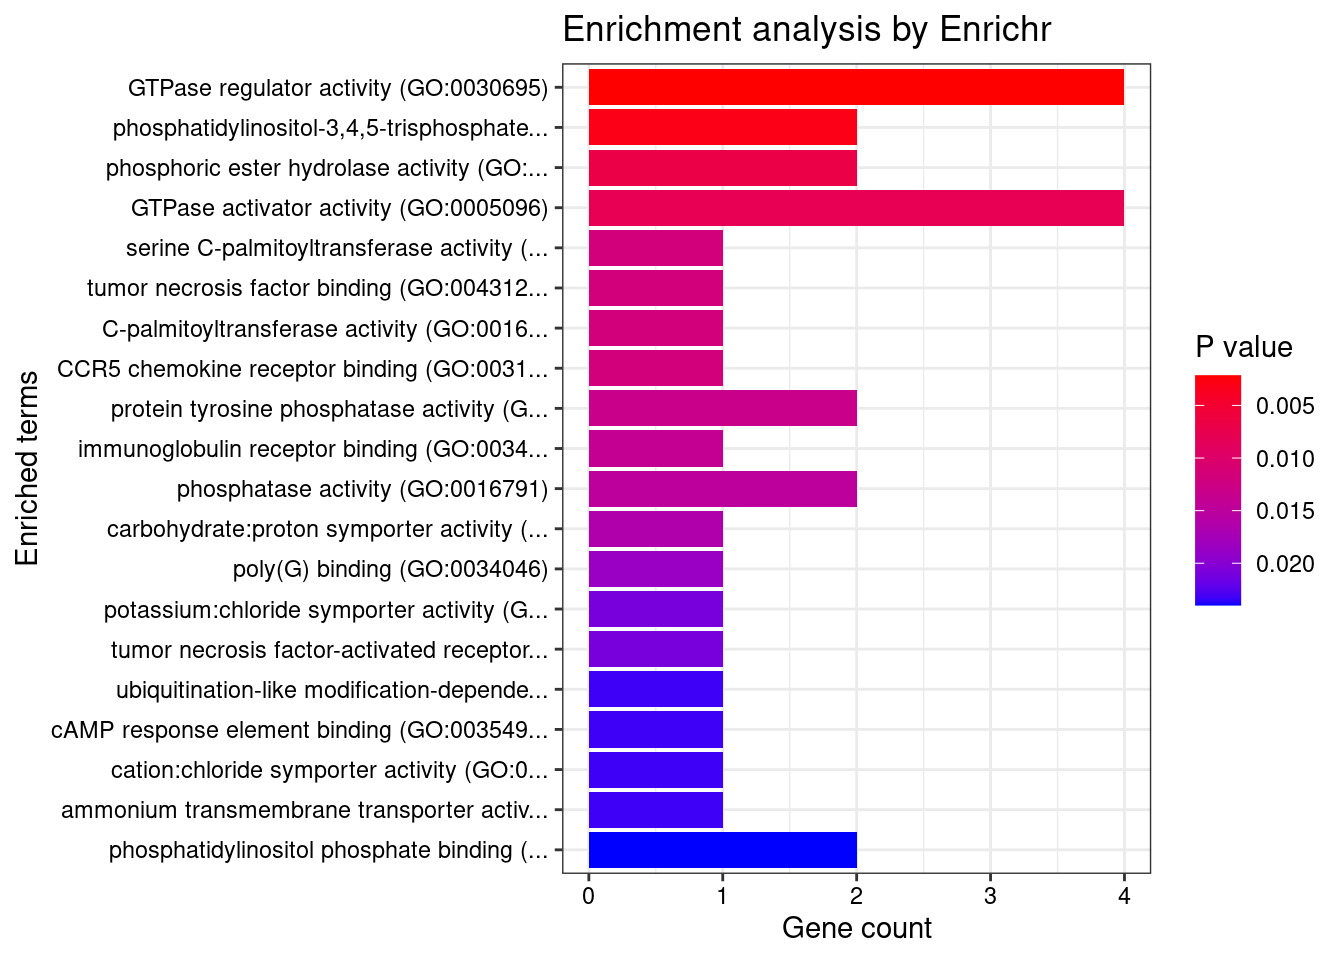
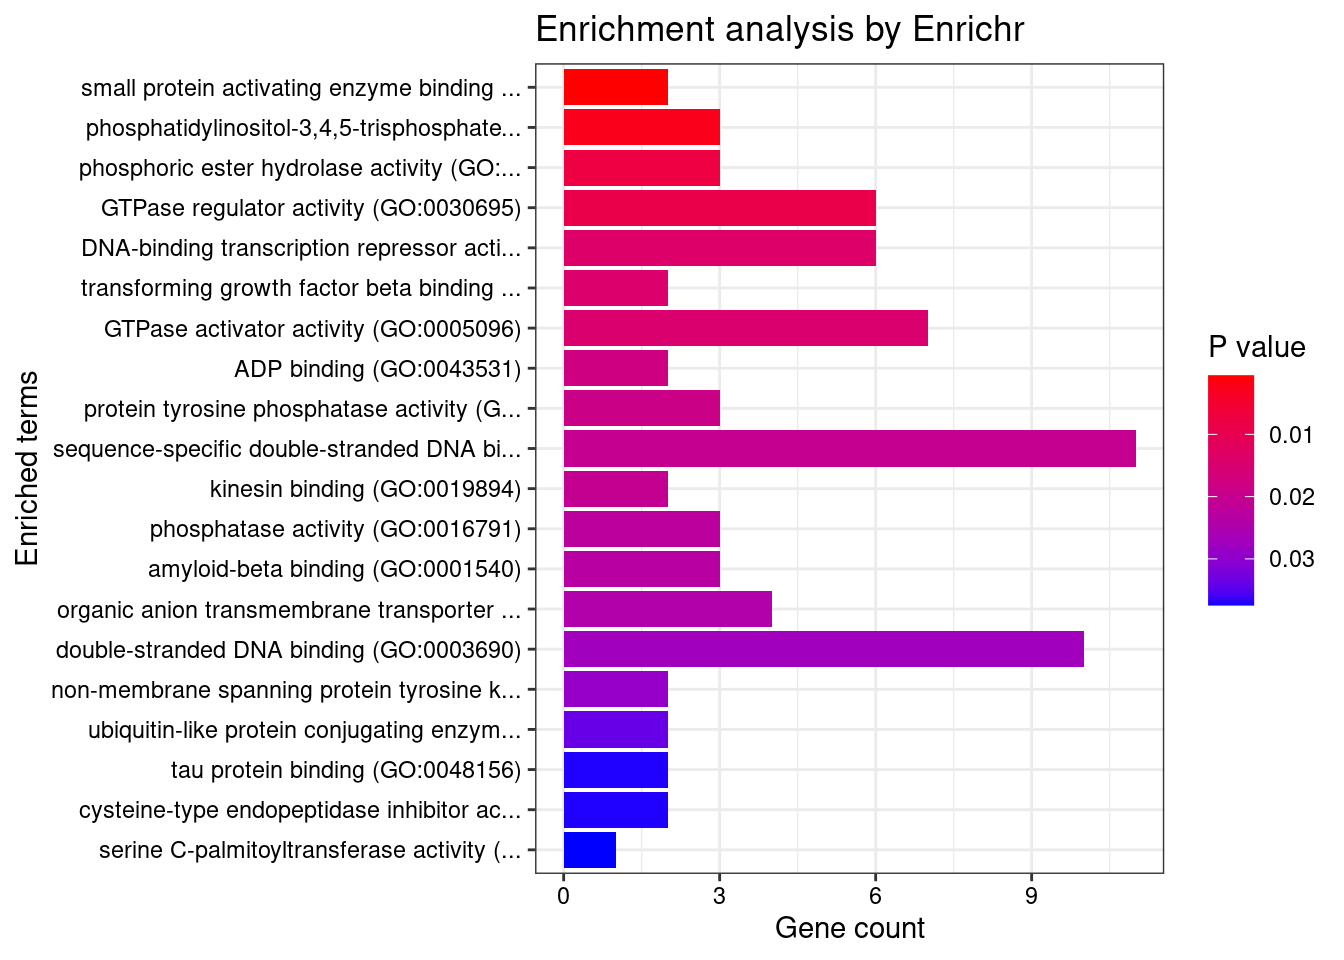
update

Changed region(s): [[0.0312, 0.0, 1.0, 1.0]]

diff --git a/docs/WhiteBlood_WholeBlood_E_S_M.html b/docs/WhiteBlood_WholeBlood_E_S_M.html
@@ -386,7 +386,7 @@ div.tocify {
 <div class="tab-content">
 <div id="summary" class="tab-pane fade in active">
 <p>
-<strong>Last updated:</strong> 2023-02-02
+<strong>Last updated:</strong> 2023-02-03
 </p>
 <p>
 <strong>Checks:</strong> <span class="glyphicon glyphicon-ok text-success" aria-hidden="true"></span> 5 <span class="glyphicon glyphicon-exclamation-sign text-danger" aria-hidden="true"></span> 2
@@ -410,7 +410,7 @@ This reproducible <a href="https://rmarkdown.rstudio.com">R Markdown</a> analysi
 </div>
 <div id="strongRMarkdownfilestronguncommittedchanges" class="panel-collapse collapse">
 <div class="panel-body">
-<p>The R Markdown file has staged changes. To know which version of the R Markdown file created these results, you’ll want to first commit it to the Git repo. If you’re still working on the analysis, you can ignore this warning. When you’re finished, you can run <code>wflow_publish</code> to commit the R Markdown file and build the HTML.</p>
+<p>The R Markdown file has unstaged changes. To know which version of the R Markdown file created these results, you’ll want to first commit it to the Git repo. If you’re still working on the analysis, you can ignore this warning. When you’re finished, you can run <code>wflow_publish</code> to commit the R Markdown file and build the HTML.</p>
 </div>
 </div>
 </div>
@@ -533,16 +533,16 @@ data/mqtl/WholeBlood.db
 <div class="panel panel-default">
 <div class="panel-heading">
 <p class="panel-title">
-<a data-toggle="collapse" data-parent="#workflowr-checks" href="#strongRepositoryversionstrongahrefhttpsgithubcomsq96cTWASanalysistreea76256830927919471e32c34075dde86f20eb5fftargetblanka762568a"> <span class="glyphicon glyphicon-ok text-success" aria-hidden="true"></span> <strong>Repository version:</strong> <a href="https://github.com/sq-96/cTWAS_analysis/tree/a76256830927919471e32c34075dde86f20eb5ff" target="_blank">a762568</a> </a>
+<a data-toggle="collapse" data-parent="#workflowr-checks" href="#strongRepositoryversionstrongahrefhttpsgithubcomsq96cTWASanalysistree6286c345d7d7de0c6a56bd29a0792988cb78f287targetblank6286c34a"> <span class="glyphicon glyphicon-ok text-success" aria-hidden="true"></span> <strong>Repository version:</strong> <a href="https://github.com/sq-96/cTWAS_analysis/tree/6286c345d7d7de0c6a56bd29a0792988cb78f287" target="_blank">6286c34</a> </a>
 </p>
 </div>
[2 lines of base64/hex data omitted]
 <div class="panel-body">
 <p>
 Great! You are using Git for version control. Tracking code development and connecting the code version to the results is critical for reproducibility.
 </p>
 <p>
-The results in this page were generated with repository version <a href="https://github.com/sq-96/cTWAS_analysis/tree/a76256830927919471e32c34075dde86f20eb5ff" target="_blank">a762568</a>. See the <em>Past versions</em> tab to see a history of the changes made to the R Markdown and HTML files.
+The results in this page were generated with repository version <a href="https://github.com/sq-96/cTWAS_analysis/tree/6286c345d7d7de0c6a56bd29a0792988cb78f287" target="_blank">6286c34</a>. See the <em>Past versions</em> tab to see a history of the changes made to the R Markdown and HTML files.
 </p>
 <p>
 Note that you need to be careful to ensure that all relevant files for the analysis have been committed to Git prior to generating the results (you can use <code>wflow_publish</code> or <code>wflow_git_commit</code>). workflowr only checks the R Markdown file, but you know if there are other scripts or data files that it depends on. Below is the status of the Git repository when the results were generated:
@@ -660,9 +660,6 @@ Unstaged changes:
     Modified:   analysis/WhiteBlood_WholeBlood_E_S_M.Rmd
     Deleted:    code/run_IBD_ctwas_rss_LDR_ME.R
 
-Staged changes:
-    Modified:   analysis/WhiteBlood_WholeBlood_E_S_M.Rmd
-
 </code></pre>
 <p>
 Note that any generated files, e.g. HTML, png, CSS, etc., are not included in this status report because it is ok for generated content to have uncommitted changes.
@@ -700,6 +697,40 @@ Message
 </tr>
 </thead>
 <tbody>
+<tr>
+<td>
+Rmd
+</td>
+<td>
+<a href="https://github.com/sq-96/cTWAS_analysis/blob/6286c345d7d7de0c6a56bd29a0792988cb78f287/analysis/WhiteBlood_WholeBlood_E_S_M.Rmd" target="_blank">6286c34</a>
+</td>
+<td>
+sq-96
+</td>
+<td>
+2023-02-02
+</td>
+<td>
+update
+</td>
+</tr>
+<tr>
+<td>
+html
+</td>
+<td>
+<a href="https://rawcdn.githack.com/sq-96/cTWAS_analysis/6286c345d7d7de0c6a56bd29a0792988cb78f287/docs/WhiteBlood_WholeBlood_E_S_M.html" target="_blank">6286c34</a>
+</td>
+<td>
+sq-96
+</td>
+<td>
+2023-02-02
+</td>
+<td>
+update
+</td>
+</tr>
 <tr>
 <td>
 Rmd
@@ -805,7 +836,7 @@ options(digits = 4)</code></pre>
 </div>
 <div id="check-convergence-of-parameters" class="section level3">
 <h3>Check convergence of parameters</h3>
-<p><img src="figure/WhiteBlood_WholeBlood_E_S_M.Rmd/unnamed-chunk-3-1.png" width="10%" style="display: block; margin: auto;" /></p>
+<p><img src="figure/WhiteBlood_WholeBlood_E_S_M.Rmd/unnamed-chunk-3-1.png" width="50%" style="display: block; margin: auto;" /></p>
 <p>
 <button type="button" class="btn btn-default btn-xs btn-workflowr btn-workflowr-fig" data-toggle="collapse" data-target="#fig-unnamed-chunk-3-1">
 Past versions of unnamed-chunk-3-1.png
@@ -828,6 +859,17 @@ Date
 </tr>
 </thead>
 <tbody>
+<tr>
+<td>
+<a href="https://github.com/sq-96/cTWAS_analysis/blob/6286c345d7d7de0c6a56bd29a0792988cb78f287/docs/figure/WhiteBlood_WholeBlood_E_S_M.Rmd/unnamed-chunk-3-1.png" target="_blank">6286c34</a>
+</td>
+<td>
+sq-96
+</td>
+<td>
+2023-02-02
+</td>
+</tr>
 <tr>
 <td>
 <a href="https://github.com/sq-96/cTWAS_analysis/blob/a76256830927919471e32c34075dde86f20eb5ff/docs/figure/WhiteBlood_WholeBlood_E_S_M.Rmd/unnamed-chunk-3-1.png" target="_blank">a762568</a>
@@ -1302,7 +1344,7 @@ head(df_gene[order(-df_gene$susie_pip),], max(sum(df_gene$susie_pip&gt;0.8), 20)
 <h2>GO enrichment analysis for genes with PIP&gt;0.5</h2>
 <pre class="r"><code>#number of genes for gene set enrichment
 length(genes)</code></pre>
-<pre><code>[1] 47</code></pre>
+<pre><code>[1] 152</code></pre>
 <pre><code>Uploading data to Enrichr... Done.
   Querying GO_Biological_Process_2021... Done.
   Querying GO_Cellular_Component_2021... Done.
@@ -1310,30 +1352,167 @@ length(genes)</code></pre>
 Parsing results... Done.
 [1] &quot;GO_Biological_Process_2021&quot;</code></pre>
 <p><img src="figure/WhiteBlood_WholeBlood_E_S_M.Rmd/unnamed-chunk-13-1.png" width="672" style="display: block; margin: auto;" /></p>
-<pre><code>[1] Term             Overlap          Adjusted.P.value Genes           
-&lt;0 rows&gt; (or 0-length row.names)
+<p>
+<button type="button" class="btn btn-default btn-xs btn-workflowr btn-workflowr-fig" data-toggle="collapse" data-target="#fig-unnamed-chunk-13-1">
+Past versions of unnamed-chunk-13-1.png
+</button>
+</p>
+<div id="fig-unnamed-chunk-13-1" class="collapse">
+<div class="table-responsive">
+<table class="table table-condensed table-hover">
+<thead>
+<tr>
+<th>
+Version
+</th>
+<th>
+Author
+</th>
+<th>
+Date
+</th>
+</tr>
+</thead>
+<tbody>
+<tr>
+<td>
+<a href="https://github.com/sq-96/cTWAS_analysis/blob/6286c345d7d7de0c6a56bd29a0792988cb78f287/docs/figure/WhiteBlood_WholeBlood_E_S_M.Rmd/unnamed-chunk-13-1.png" target="_blank">6286c34</a>
+</td>
+<td>
+sq-96
+</td>
+<td>
+2023-02-02
+</td>
+</tr>
+</tbody>
+</table>
+</div>
+</div>
+<pre><code>                                                            Term Overlap
+1 neutrophil activation involved in immune response (GO:0002283)  15/485
+2       amyloid precursor protein metabolic process (GO:0042982)    4/18
+3                          neutrophil degranulation (GO:0043312)  14/481
+4                      neutrophil mediated immunity (GO:0002446)  14/488
+5                        adipose tissue development (GO:0060612)    3/12
+  Adjusted.P.value
+1         0.005830
+2         0.005830
+3         0.007156
+4         0.007156
+5         0.023247
+                                                                                     Genes
+1 PTPRN2;ADAM10;PTPRJ;IQGAP2;LYZ;ITGAL;SIRPB1;CNN2;LAMP1;SELL;OSTF1;CD36;DNASE1;ELANE;CD33
+2                                                                 ADAM19;ACHE;ADAM10;TMCC2
+3        PTPRN2;ADAM10;PTPRJ;IQGAP2;LYZ;ITGAL;SIRPB1;CNN2;LAMP1;SELL;OSTF1;CD36;ELANE;CD33
+4        PTPRN2;ADAM10;PTPRJ;IQGAP2;LYZ;ITGAL;SIRPB1;CNN2;LAMP1;SELL;OSTF1;CD36;ELANE;CD33
+5                                                                       SPTLC2;ZNF516;RORC
 [1] &quot;GO_Cellular_Component_2021&quot;</code></pre>
 <p><img src="figure/WhiteBlood_WholeBlood_E_S_M.Rmd/unnamed-chunk-13-2.png" width="672" style="display: block; margin: auto;" /></p>
-<pre><code>[1] Term             Overlap          Adjusted.P.value Genes           
-&lt;0 rows&gt; (or 0-length row.names)
+<p>
+<button type="button" class="btn btn-default btn-xs btn-workflowr btn-workflowr-fig" data-toggle="collapse" data-target="#fig-unnamed-chunk-13-2">
+Past versions of unnamed-chunk-13-2.png
+</button>
+</p>
+<div id="fig-unnamed-chunk-13-2" class="collapse">
+<div class="table-responsive">
+<table class="table table-condensed table-hover">
+<thead>
+<tr>
+<th>
+Version
+</th>
+<th>
+Author
+</th>
+<th>
+Date
+</th>
+</tr>
+</thead>
+<tbody>
+<tr>
+<td>
+<a href="https://github.com/sq-96/cTWAS_analysis/blob/6286c345d7d7de0c6a56bd29a0792988cb78f287/docs/figure/WhiteBlood_WholeBlood_E_S_M.Rmd/unnamed-chunk-13-2.png" target="_blank">6286c34</a>
+</td>
+<td>
+sq-96
+</td>
+<td>
+2023-02-02
+</td>
+</tr>
+</tbody>
+</table>
+</div>
+</div>
+<pre><code>                                      Term Overlap Adjusted.P.value
+1            specific granule (GO:0042581)   8/160         0.002908
+2  secretory granule membrane (GO:0030667)  10/274         0.002908
+3 actin-based cell projection (GO:0098858)    5/83         0.017256
+4   specific granule membrane (GO:0035579)    5/91         0.019746
+5            tertiary granule (GO:0070820)   6/164         0.038873
+                                                         Genes
+1                  CNN2;ADAM10;PTPRJ;CD36;LYZ;ITGAL;ELANE;CD33
+2 PTPRN2;LAMP1;SELL;ADAM10;PTPRJ;CD36;IQGAP2;ITGAL;SIRPB1;CD33
+3                            SLC9A3R1;MYO1C;CD302;IQGAP2;MYO1G
+4                                 ADAM10;PTPRJ;CD36;ITGAL;CD33
+5                            CNN2;PTPRN2;LAMP1;ADAM10;LYZ;CD33
 [1] &quot;GO_Molecular_Function_2021&quot;</code></pre>
 <p><img src="figure/WhiteBlood_WholeBlood_E_S_M.Rmd/unnamed-chunk-13-3.png" width="672" style="display: block; margin: auto;" /></p>
+<p>
+<button type="button" class="btn btn-default btn-xs btn-workflowr btn-workflowr-fig" data-toggle="collapse" data-target="#fig-unnamed-chunk-13-3">
+Past versions of unnamed-chunk-13-3.png
+</button>
+</p>
+<div id="fig-unnamed-chunk-13-3" class="collapse">
+<div class="table-responsive">
+<table class="table table-condensed table-hover">
+<thead>
+<tr>
+<th>
+Version
+</th>
+<th>
+Author
+</th>
+<th>
+Date
+</th>
+</tr>
+</thead>
+<tbody>
+<tr>
+<td>
+<a href="https://github.com/sq-96/cTWAS_analysis/blob/6286c345d7d7de0c6a56bd29a0792988cb78f287/docs/figure/WhiteBlood_WholeBlood_E_S_M.Rmd/unnamed-chunk-13-3.png" target="_blank">6286c34</a>
+</td>
+<td>
+sq-96
+</td>
+<td>
+2023-02-02
+</td>
+</tr>
+</tbody>
+</table>
+</div>
+</div>
 <pre><code>[1] Term             Overlap          Adjusted.P.value Genes           
 &lt;0 rows&gt; (or 0-length row.names)</code></pre>
 </div>
 <div id="disgenet-enrichment-analysis-for-genes-with-pip0.5" class="section level2">
 <h2>DisGeNET enrichment analysis for genes with PIP&gt;0.5</h2>
-<pre><code>                   Description     FDR Ratio  BgRatio
-1           Abortion, Habitual 0.04948  1/28   2/9703
-10         Atrial Fibrillation 0.04948  3/28 160/9703
-37      Dysautonomia, Familial 0.04948  1/28   3/9703
-41                    Freckles 0.04948  1/28   1/9703
-53                   Melanosis 0.04948  1/28   1/9703
-54                    Chloasma 0.04948  1/28   1/9703
-68            Reflex, Abnormal 0.04948  1/28   5/9703
-83     Ataxia, Spinocerebellar 0.04948  2/28  34/9703
-85 Intermittent joint effusion 0.04948  1/28   2/9703
-86  Reflex, Corneal, Decreased 0.04948  1/28   5/9703</code></pre>
+<pre><code>                              Description     FDR Ratio  BgRatio
+14  Refractory anaemia with excess blasts 0.09637  1/85   1/9703
+45      Cholesterol Ester Storage Disease 0.09637  1/85   1/9703
+71                              Epistaxis 0.09637  1/85   1/9703
+77                               Freckles 0.09637  1/85   1/9703
+109          Acute Promyelocytic Leukemia 0.09637  3/85  46/9703
+112         Liver Cirrhosis, Experimental 0.09637 15/85 774/9703
+122                             Melanosis 0.09637  1/85   1/9703
+123                              Chloasma 0.09637  1/85   1/9703
+176                        Telangiectasis 0.09637  1/85   1/9703
+187                        Wolman Disease 0.09637  1/85   1/9703</code></pre>
 </div>
 <div id="webgestalt-enrichment-analysis-for-genes-with-pip0.5" class="section level2">
 <h2>WebGestalt enrichment analysis for genes with PIP&gt;0.5</h2>
